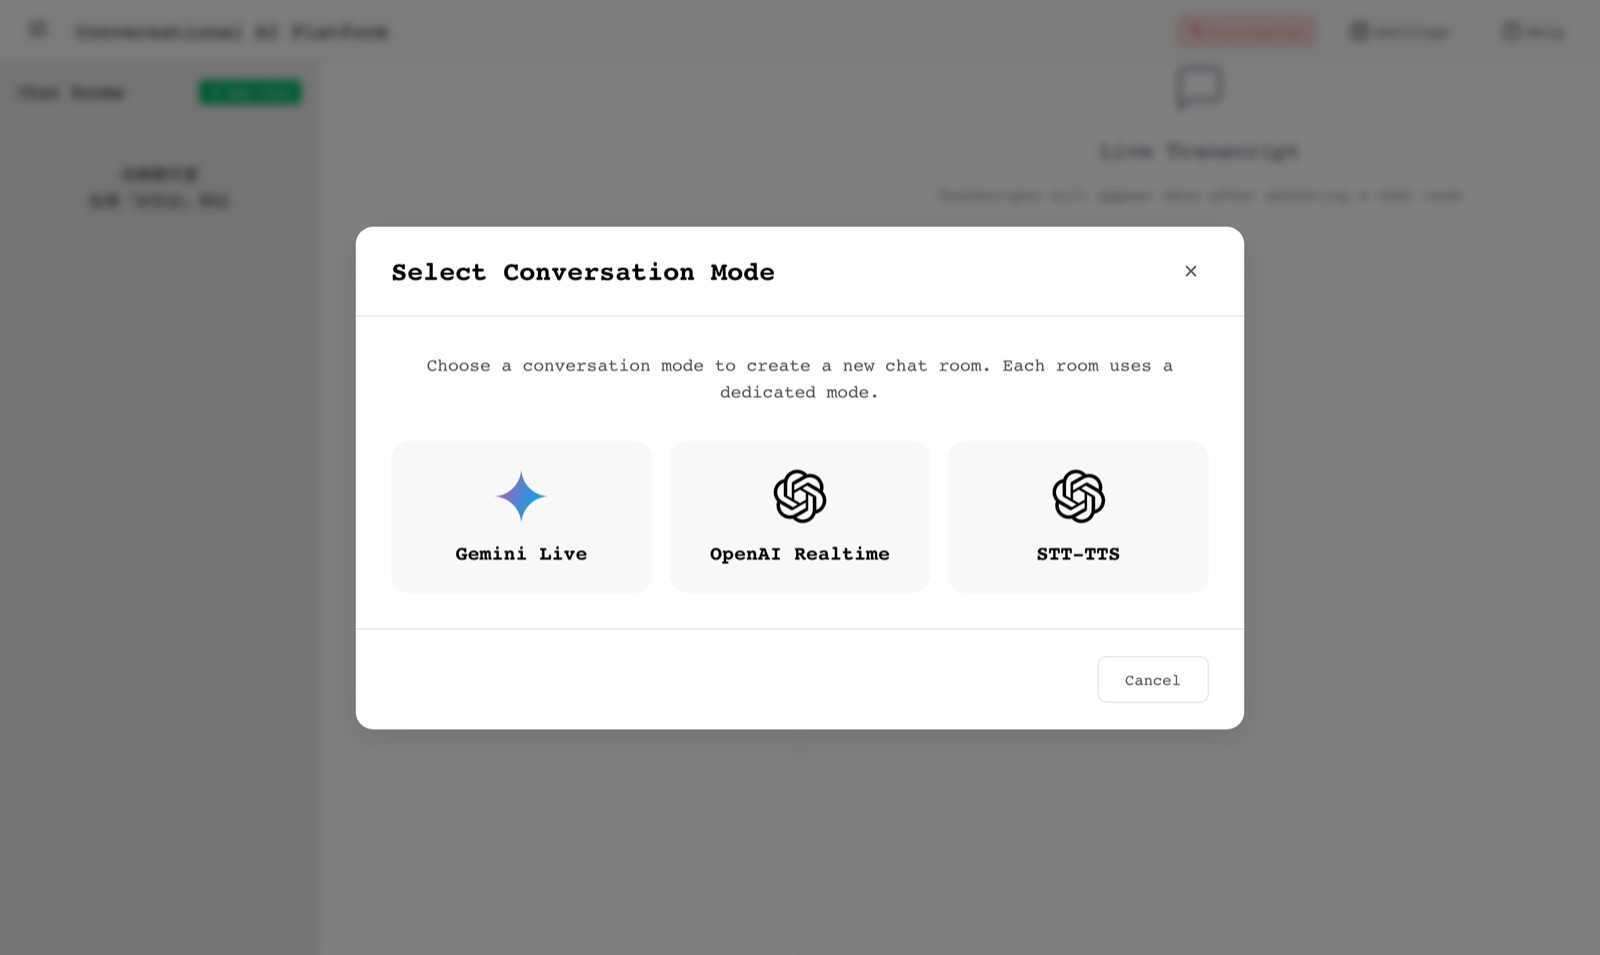
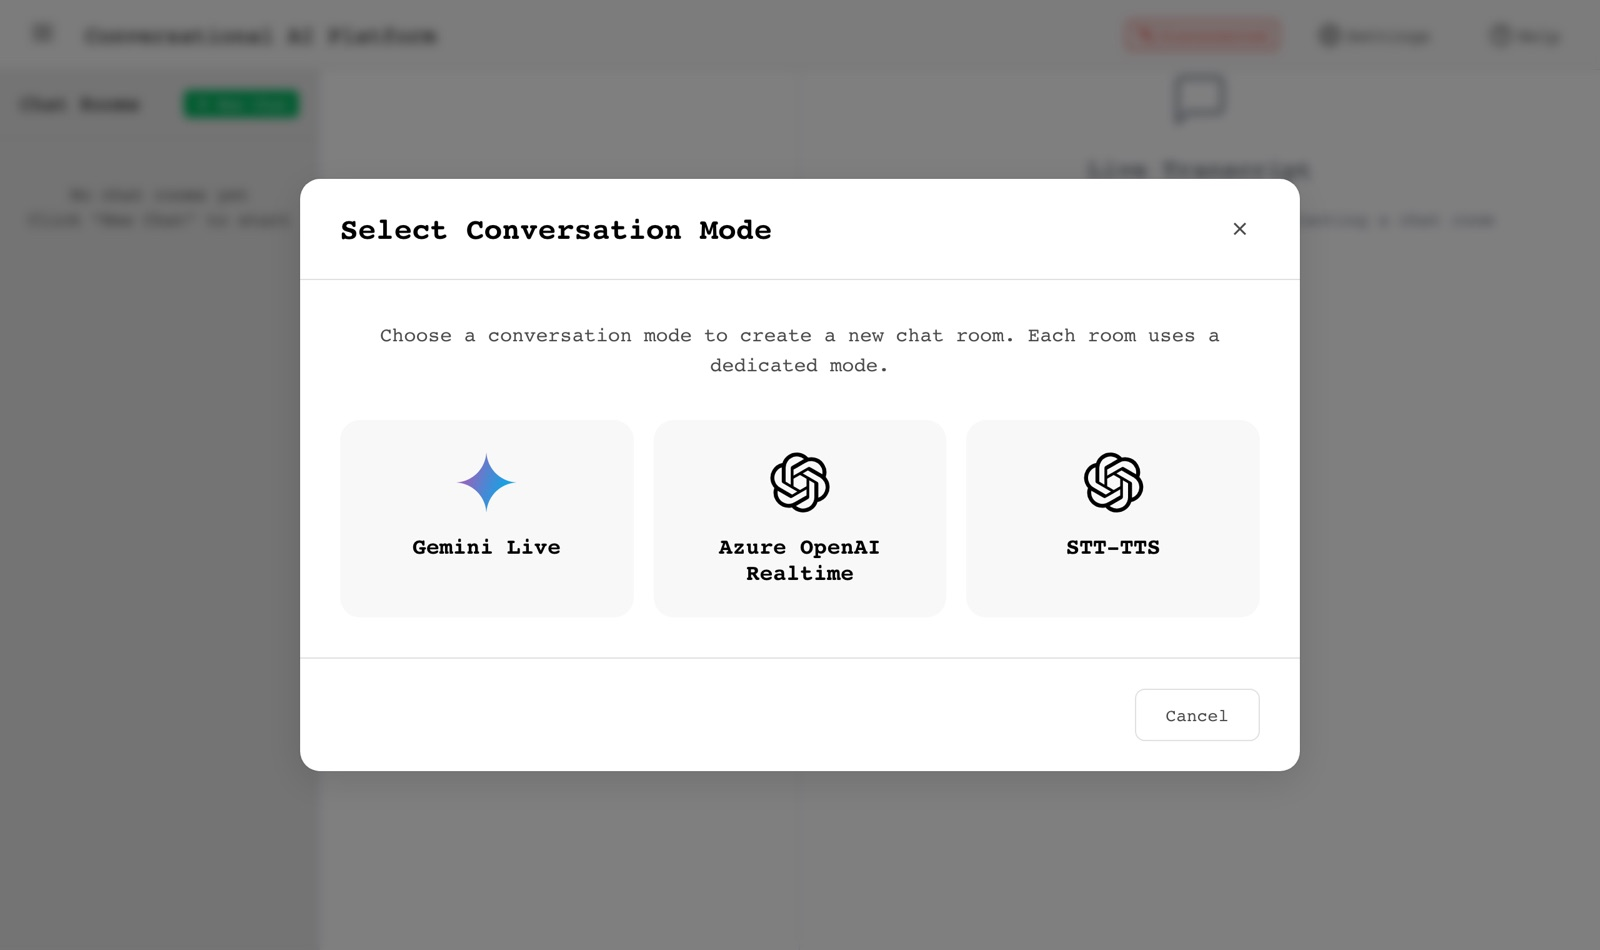
Review fixes: credit and contribution wording, score fusion, post-competition note, mobile layout, demo assets, Contact on phones

diff --git a/index.html b/index.html
@@ -18,7 +18,7 @@
 
 <header class="topbar">
   <a class="brand" href="#top"><span class="dot" aria-hidden="true"></span>PK Wu</a>
-  <nav class="navlinks glass" aria-label="Sections"><a href="#experience">Experience</a><a href="#work">Projects</a><a href="#awards">Awards</a><span class="progress" aria-hidden="true"></span></nav>
+  <nav class="navlinks glass" aria-label="Sections"><a href="#experience">Experience</a><a href="#work">Projects</a><a href="#awards">Awards</a><a class="nav-contact" href="#contact">Contact</a><span class="progress" aria-hidden="true"></span></nav>
   <a class="btn dark" href="#contact">Contact</a>
 </header>
 
@@ -51,7 +51,7 @@
       <h3>Digital Operations Partner Lead</h3>
       <p class="org">Licensed Taiwan Sports Lottery retailer, two stores</p>
       <p>Lead a 7–10 person team of sports analysts, content, events and engineering. Built the data pipeline, BI dashboard and a 5-agent operations system.</p>
-      <div class="tiles"><div class="tile hl"><b>+33%</b><span>monthly active members</span></div><div class="tile"><b>NT$36M</b><span>trailing-12-month betting volume</span></div><div class="tile"><b>151</b><span>automated tests on the pipeline</span></div></div>
+      <div class="tiles"><div class="tile hl"><b>+33%</b><span>monthly active members</span></div><div class="tile"><b>29K+</b><span>member-day records unified from 3 sources</span></div><div class="tile"><b>151</b><span>automated tests on the pipeline</span></div></div>
     </article>
     <article class="bcard dark rv">
       <p class="when"><span class="pill">Jul. – Dec. 2025</span></p>
@@ -87,7 +87,7 @@
       <div>
       <h3>National Taiwan University</h3>
       <p class="org">B.B.A. in Finance, Sep. 2021 – Jan. 2026</p></div>
-      <dl class="skills-mini"><div><dt>Retrieval &amp; NLP</dt><dd>BM25, embeddings, hybrid fusion, jieba</dd></div><div><dt>LLM systems</dt><dd>Gemini Live, Azure Realtime, LLM-as-a-judge</dd></div><div><dt>ML &amp; data</dt><dd>scikit-learn, XGBoost, Keras, SQL, Dash</dd></div></dl>
+      <dl class="skills-mini"><div><dt>Retrieval &amp; NLP</dt><dd>BM25, embeddings, hybrid fusion, jieba</dd></div><div><dt>LLM systems</dt><dd>Gemini Live, Azure OpenAI Realtime, LLM-as-a-judge</dd></div><div><dt>ML &amp; data</dt><dd>scikit-learn, XGBoost, Keras, SQL, Dash</dd></div></dl>
     </article>
   </div>
 </section>
@@ -116,16 +116,16 @@
   </article>
 <article class="proj pcard rv" aria-labelledby="p-voice">
     <div class="ptext">
-      <p class="metric"><span class="num">3 modes</span><span class="lab">Gemini Live, Azure Realtime and STT–TTS in one interface</span></p>
+      <p class="metric"><span class="num">3 modes</span><span class="lab">Gemini Live, Azure OpenAI Realtime and STT–TTS in one interface</span></p>
       <h3 class="ptitle" id="p-voice">Realtime voice customer-service agent</h3>
       <p class="meta">Cathay Life Insurance, GenAI Intern · Jul. – Dec. 2025</p>
       <p class="summary">A browser prototype that runs Gemini Live and Azure OpenAI Realtime behind one interface, with interruption handling. The team kept using it as their testing platform.</p>
       <ul class="tags" aria-label="Tools"><li>React</li><li>TypeScript</li><li>Gemini Live API</li><li>Azure OpenAI Realtime</li><li>Web Audio</li></ul>
       <p class="links"><a class="btn small" href="https://github.com/power7414/realtime-voice-agent"><svg viewBox="0 0 24 24" aria-hidden="true" width="18" height="18"><path fill="currentColor" d="M12 .297c-6.63 0-12 5.373-12 12 0 5.303 3.438 9.8 8.205 11.385.6.113.82-.258.82-.577 0-.285-.01-1.04-.015-2.04-3.338.724-4.042-1.61-4.042-1.61C4.422 18.07 3.633 17.7 3.633 17.7c-1.087-.744.084-.729.084-.729 1.205.084 1.838 1.236 1.838 1.236 1.07 1.835 2.809 1.305 3.495.998.108-.776.417-1.305.76-1.605-2.665-.3-5.466-1.332-5.466-5.93 0-1.31.465-2.38 1.235-3.22-.135-.303-.54-1.523.105-3.176 0 0 1.005-.322 3.3 1.23.96-.267 1.98-.399 3-.405 1.02.006 2.04.138 3 .405 2.28-1.552 3.285-1.23 3.285-1.23.645 1.653.24 2.873.12 3.176.765.84 1.23 1.91 1.23 3.22 0 4.61-2.805 5.625-5.475 5.92.42.36.81 1.096.81 2.22 0 1.606-.015 2.896-.015 3.286 0 .315.21.69.825.57C20.565 22.092 24 17.592 24 12.297c0-6.627-5.373-12-12-12"/></svg><span>View project</span></a> <a class="btn small primary" href="https://power7414.github.io/realtime-voice-agent/"><span>Try the demo</span></a></p>
       <details class="more"><summary>More details</summary><div class="more-body"><p>Phone customers expect to speak naturally and interrupt, which text chatbots do not handle. I built a browser prototype in React and TypeScript with one interface over two realtime speech APIs, Gemini Live and Azure OpenAI Realtime, including interruption (barge-in) handling, low-latency audio playback and saved transcripts.</p>
-    <p>The demo handles a failed premium payment in a multi-turn call and ends by sending a self-service link. I connected it to internal databases and service APIs for intent recognition and routing, and it became a testing platform the team kept using after the prototype phase. The codebase passes 25 automated tests.</p><div class="more-figs"><figure><div class="browser"><span class="dots" aria-hidden="true"><i></i><i></i><i></i></span><img src="img/voice-modes.jpg" width="1600" height="956" loading="lazy" alt="Mode picker with three options: Gemini Live, OpenAI Realtime, and speech-to-text plus text-to-speech."></div><figcaption>One interface, three speech back-ends.</figcaption></figure></div></div></details>
+    <p>The demo handles a failed premium payment in a multi-turn call and ends by sending a self-service link. I connected it to internal databases and service APIs for intent recognition and routing, and it became a testing platform the team kept using after the prototype phase. The codebase passes 25 automated tests.</p><div class="more-figs"><figure><div class="browser"><span class="dots" aria-hidden="true"><i></i><i></i><i></i></span><img src="img/voice-modes.jpg" width="1600" height="950" loading="lazy" alt="Mode picker with three options: Gemini Live, OpenAI Realtime, and speech-to-text plus text-to-speech."></div><figcaption>One interface, three speech back-ends.</figcaption></figure></div></div></details>
     </div>
-    <div class="figs"><figure class="shot"><div class="browser"><span class="dots" aria-hidden="true"><i></i><i></i><i></i></span><img src="img/voice-demo.gif" width="960" height="570" loading="lazy" alt="Animated demo: a new chat is opened, OpenAI Realtime is selected, and the live transcript fills in: a customer says this month's premium payment failed, the assistant asks about a recent card change and sends a link to update the card and pay."><span class="chip glass" aria-hidden="true">Gemini Live · Azure Realtime</span><a class="chip glass r" href="https://power7414.github.io/realtime-voice-agent/">▶ Try the demo</a><figcaption>Demo: new chat → pick a mode → connect. Scripted offline conversation shown in English (the real system served Mandarin-speaking customers); the internal business prompt is not shown.</figcaption></figure></div>
+    <div class="figs"><figure class="shot"><div class="browser"><span class="dots" aria-hidden="true"><i></i><i></i><i></i></span><img src="img/voice-demo.gif" width="960" height="570" loading="lazy" alt="Animated demo: a new chat is opened, Azure OpenAI Realtime is selected, and the live transcript fills in: a customer says this month's premium payment failed, the assistant asks about a recent card change and sends a link to update the card and pay."><span class="chip glass" aria-hidden="true">Gemini Live · Azure OpenAI Realtime</span><a class="chip glass r" href="https://power7414.github.io/realtime-voice-agent/">▶ Try the demo</a></div><figcaption>Demo: new chat → pick a mode → connect. Scripted offline conversation shown in English (the real system served Mandarin-speaking customers); the internal business prompt is not shown.</figcaption></figure></div>
   </article>
 <article class="proj pcard rv" aria-labelledby="p-eval">
     <div class="ptext">
@@ -155,14 +155,14 @@
   </article>
 <article class="proj pcard rv" aria-labelledby="p-esun">
     <div class="ptext">
-      <p class="metric"><span class="num">88.67%</span><span class="lab">precision@1, up from a 71.33% baseline</span></p>
+      <p class="metric"><span class="num">88.67%</span><span class="lab">precision@1 after post-competition tuning, up from a 71.33% baseline</span></p>
       <h3 class="ptitle" id="p-esun">Retrieval for bank customer questions</h3>
       <p class="meta">E.SUN Bank AI RAG Competition (T-Brain), 2024 · team of 3 · shortlisted in the preliminary round</p>
-      <p class="summary">Find the one right document for a bank customer's question. A hybrid BM25 and embedding pipeline reaches 88.67% precision@1, up from a 71.33% baseline.</p>
+      <p class="summary">Find the one right document for a bank customer's question. After the competition I rebuilt and tuned the hybrid BM25 and embedding pipeline to 88.67% precision@1, up from the 71.33% baseline.</p>
       <ul class="tags" aria-label="Tools"><li>Python</li><li>BM25</li><li>Conan-embedding</li><li>Hybrid retrieval</li><li>jieba</li></ul>
       <p class="links"><a class="btn small" href="https://github.com/power7414/esun-ai-rag-retrieval"><svg viewBox="0 0 24 24" aria-hidden="true" width="18" height="18"><path fill="currentColor" d="M12 .297c-6.63 0-12 5.373-12 12 0 5.303 3.438 9.8 8.205 11.385.6.113.82-.258.82-.577 0-.285-.01-1.04-.015-2.04-3.338.724-4.042-1.61-4.042-1.61C4.422 18.07 3.633 17.7 3.633 17.7c-1.087-.744.084-.729.084-.729 1.205.084 1.838 1.236 1.838 1.236 1.07 1.835 2.809 1.305 3.495.998.108-.776.417-1.305.76-1.605-2.665-.3-5.466-1.332-5.466-5.93 0-1.31.465-2.38 1.235-3.22-.135-.303-.54-1.523.105-3.176 0 0 1.005-.322 3.3 1.23.96-.267 1.98-.399 3-.405 1.02.006 2.04.138 3 .405 2.28-1.552 3.285-1.23 3.285-1.23.645 1.653.24 2.873.12 3.176.765.84 1.23 1.91 1.23 3.22 0 4.61-2.805 5.625-5.475 5.92.42.36.81 1.096.81 2.22 0 1.606-.015 2.896-.015 3.286 0 .315.21.69.825.57C20.565 22.092 24 17.592 24 12.297c0-6.627-5.373-12-12-12"/></svg><span>View project</span></a></p>
-      <details class="more"><summary>More details</summary><div class="more-body"><p>Given a customer question, the system must find the one correct document among insurance policies, financial reports and FAQs. I tested how accurately each candidate embedding model retrieved the right document, and built the reranking step for financial-report questions, where long reports are split into overlapping chunks and embedding scores are fused with BM25.</p>
-    <p>On the 150 official sample questions, a single reproducible pipeline reaches <strong>88.67% precision@1</strong>, up from the official baseline of 71.33%.</p>
+      <details class="more"><summary>More details</summary><div class="more-body"><p>Given a customer question, the system must find the one correct document among insurance policies, financial reports and FAQs. I tested how accurately each candidate embedding model retrieved the right document, and built the score-fusion step for financial-report questions, where long reports are split into overlapping chunks and embedding scores are fused with BM25.</p>
+    <p>After the competition, on the 150 official sample questions, my rebuilt pipeline reaches <strong>88.67% precision@1</strong>, up from the official baseline of 71.33%.</p>
     <p class="note">Methods were compared on the same 150 public questions; there is no held-out set.</p><div class="more-figs"><figure class="flowfig"><ol class="flow" aria-label="Retrieval pipeline from question to top-1 document"><li><span class="step">Customer question</span><span class=sub>with its category</span></li><li><span class="step">Candidate documents</span><span class=sub>FAQ, insurance policy or financial report</span></li><li><span class="step">Retrieve</span><span class=sub>BM25 + embeddings; long reports split into overlapping chunks</span></li><li><span class="step">Rerank (finance)</span><span class=sub>fuse embedding and BM25 scores</span></li><li><span class="step">Top-1 document</span><span class=sub>scored by precision@1</span></li></ol><figcaption>What the system does for each question.</figcaption></figure></div></div></details>
     </div>
     <div class="figs"><figure class="fig">
@@ -181,14 +181,14 @@
       <p class="metric"><span class="num">0.85</span><span class="lab">AUC for order-failure prediction</span></p>
       <h3 class="ptitle" id="p-bda">Prediction from text and behavior data</h3>
       <p class="meta">Big Data &amp; Business Analytics, National Taiwan University, spring 2025 · two team projects, 6 people</p>
-      <p class="summary">Predicted failed e-commerce orders from pre-order behaviour (AUC 0.85) and a stock's direction from 9,139 forum posts (70% accuracy).</p>
+      <p class="summary">Predicted failed e-commerce orders from pre-order behavior (AUC 0.85) and a stock's direction from 9,139 forum posts (70% accuracy).</p>
       <ul class="tags" aria-label="Tools"><li>Python</li><li>TensorFlow / Keras</li><li>scikit-learn</li><li>XGBoost</li><li>jieba</li></ul>
       <p class="links"><a class="btn small" href="https://github.com/power7414/order-failure-prediction"><svg viewBox="0 0 24 24" aria-hidden="true" width="18" height="18"><path fill="currentColor" d="M12 .297c-6.63 0-12 5.373-12 12 0 5.303 3.438 9.8 8.205 11.385.6.113.82-.258.82-.577 0-.285-.01-1.04-.015-2.04-3.338.724-4.042-1.61-4.042-1.61C4.422 18.07 3.633 17.7 3.633 17.7c-1.087-.744.084-.729.084-.729 1.205.084 1.838 1.236 1.838 1.236 1.07 1.835 2.809 1.305 3.495.998.108-.776.417-1.305.76-1.605-2.665-.3-5.466-1.332-5.466-5.93 0-1.31.465-2.38 1.235-3.22-.135-.303-.54-1.523.105-3.176 0 0 1.005-.322 3.3 1.23.96-.267 1.98-.399 3-.405 1.02.006 2.04.138 3 .405 2.28-1.552 3.285-1.23 3.285-1.23.645 1.653.24 2.873.12 3.176.765.84 1.23 1.91 1.23 3.22 0 4.61-2.805 5.625-5.475 5.92.42.36.81 1.096.81 2.22 0 1.606-.015 2.896-.015 3.286 0 .315.21.69.825.57C20.565 22.092 24 17.592 24 12.297c0-6.627-5.373-12-12-12"/></svg><span>View project: orders</span></a></p><p class="links"><a class="btn small" href="https://github.com/power7414/stock-forum-signal"><svg viewBox="0 0 24 24" aria-hidden="true" width="18" height="18"><path fill="currentColor" d="M12 .297c-6.63 0-12 5.373-12 12 0 5.303 3.438 9.8 8.205 11.385.6.113.82-.258.82-.577 0-.285-.01-1.04-.015-2.04-3.338.724-4.042-1.61-4.042-1.61C4.422 18.07 3.633 17.7 3.633 17.7c-1.087-.744.084-.729.084-.729 1.205.084 1.838 1.236 1.838 1.236 1.07 1.835 2.809 1.305 3.495.998.108-.776.417-1.305.76-1.605-2.665-.3-5.466-1.332-5.466-5.93 0-1.31.465-2.38 1.235-3.22-.135-.303-.54-1.523.105-3.176 0 0 1.005-.322 3.3 1.23.96-.267 1.98-.399 3-.405 1.02.006 2.04.138 3 .405 2.28-1.552 3.285-1.23 3.285-1.23.645 1.653.24 2.873.12 3.176.765.84 1.23 1.91 1.23 3.22 0 4.61-2.805 5.625-5.475 5.92.42.36.81 1.096.81 2.22 0 1.606-.015 2.896-.015 3.286 0 .315.21.69.825.57C20.565 22.092 24 17.592 24 12.297c0-6.627-5.373-12-12-12"/></svg><span>View project: stock</span></a></p>
       <details class="more"><summary>More details</summary><div class="more-body"><h4>Will an online order fail?</h4>
-    <p>Using 3.4 million e-commerce orders from 91APP, where about 12% fail, the team asked whether shopping behavior before an order signals failure. I built the DNN, LSTM and GRU models on counts of 18 behaviors in the 72 hours before each order. The DNN reached <strong>AUC 0.85</strong>, and 0.86 on orders that had behavior records.</p>
+    <p>Using 3.4 million e-commerce orders from 91APP, where about 12% fail, the team asked whether shopping behavior before an order signals failure. I built the team's deep-learning models (DNN, LSTM and GRU) on counts of 18 behaviors in the 72 hours before each order. The DNN reached <strong>AUC 0.85</strong>, and 0.86 on orders that had behavior records. The repo holds my BiLSTM notebook; the DNN and GRU runs are in the team report.</p>
     
     <h4>Can news and forum posts predict a stock's direction?</h4>
-    <p>For Innolux (3481), I did the preprocessing: filtering 9,139 forum and news posts by keyword, labeling them by the price move 5 days later, and building TF-IDF and chi-square features. Across six classifiers, the best ensemble (random forest, naive Bayes and XGBoost) reached <strong>70% accuracy</strong> on a held-out test split. In a stricter day-by-day backtest over two years, it was right <strong>60% of the time</strong> on the 3,407 calls it made confidently.</p><div class="more-figs"><figure><div class="chart bars" role="img" aria-label="Stock direction accuracy by model: random forest 69.17, naive Bayes 67.14, SVM 65.99, XGBoost 64.93, decision tree 62.37, KNN 61.57, ensemble 70.49, ensemble in rolling backtest 59.99 percent."><div class="row"><span class="lab">Random forest</span><span class="track"><span class="bar b" style="width:76.68%"></span><span class="v b" style="left:76.68%">69.2%</span></span></div><div class="row"><span class="lab">Naive Bayes</span><span class="track"><span class="bar b" style="width:68.56%"></span><span class="v b" style="left:68.56%">67.1%</span></span></div><div class="row"><span class="lab">SVM</span><span class="track"><span class="bar b" style="width:63.96%"></span><span class="v b" style="left:63.96%">66.0%</span></span></div><div class="row"><span class="lab">XGBoost</span><span class="track"><span class="bar b" style="width:59.72%"></span><span class="v b" style="left:59.72%">64.9%</span></span></div><div class="row"><span class="lab">Decision tree</span><span class="track"><span class="bar b" style="width:49.48%"></span><span class="v b" style="left:49.48%">62.4%</span></span></div><div class="row"><span class="lab">KNN</span><span class="track"><span class="bar b" style="width:46.28%"></span><span class="v b" style="left:46.28%">61.6%</span></span></div><div class="row"><span class="lab">Ensemble RF+NB+XGB</span><span class="track"><span class="bar f" style="width:81.96%"></span><span class="v f" style="left:81.96%">70.5%</span></span></div><div class="row"><span class="lab">Ensemble, rolling backtest</span><span class="track"><span class="bar f" style="width:39.96%"></span><span class="v f" style="left:39.96%">60.0%</span></span></div><div class="row axisrow" aria-hidden="true"><span></span><span class="ticks"><span style="left:0.00%">50%</span><span style="left:20.00%">55%</span><span style="left:40.00%">60%</span><span style="left:60.00%">65%</span><span style="left:80.00%">70%</span><span style="left:100.00%">75%</span></span></div></div><figcaption>Stock direction, accuracy on the held-out split (50% is a coin flip). The last bar is the stricter day-by-day backtest.</figcaption></figure></div></div></details>
+    <p>For Innolux (3481), I did the preprocessing: filtering 9,139 forum and news posts by keyword, labeling them by the price move 5 days later, and building TF-IDF and chi-square features. Across six classifiers, the best ensemble (random forest, naive Bayes and XGBoost) reached <strong>70% accuracy</strong> on a random held-out split, which is likely optimistic (the repo lists why). In a stricter day-by-day backtest over two years, it was right <strong>60% of the time</strong> on the 3,407 calls it made confidently.</p><div class="more-figs"><figure><div class="chart bars" role="img" aria-label="Stock direction accuracy by model: random forest 69.17, naive Bayes 67.14, SVM 65.99, XGBoost 64.93, decision tree 62.37, KNN 61.57, ensemble 70.49, ensemble in rolling backtest 59.99 percent."><div class="row"><span class="lab">Random forest</span><span class="track"><span class="bar b" style="width:76.68%"></span><span class="v b" style="left:76.68%">69.2%</span></span></div><div class="row"><span class="lab">Naive Bayes</span><span class="track"><span class="bar b" style="width:68.56%"></span><span class="v b" style="left:68.56%">67.1%</span></span></div><div class="row"><span class="lab">SVM</span><span class="track"><span class="bar b" style="width:63.96%"></span><span class="v b" style="left:63.96%">66.0%</span></span></div><div class="row"><span class="lab">XGBoost</span><span class="track"><span class="bar b" style="width:59.72%"></span><span class="v b" style="left:59.72%">64.9%</span></span></div><div class="row"><span class="lab">Decision tree</span><span class="track"><span class="bar b" style="width:49.48%"></span><span class="v b" style="left:49.48%">62.4%</span></span></div><div class="row"><span class="lab">KNN</span><span class="track"><span class="bar b" style="width:46.28%"></span><span class="v b" style="left:46.28%">61.6%</span></span></div><div class="row"><span class="lab">Ensemble RF+NB+XGB</span><span class="track"><span class="bar f" style="width:81.96%"></span><span class="v f" style="left:81.96%">70.5%</span></span></div><div class="row"><span class="lab">Ensemble, rolling backtest</span><span class="track"><span class="bar f" style="width:39.96%"></span><span class="v f" style="left:39.96%">60.0%</span></span></div><div class="row axisrow" aria-hidden="true"><span></span><span class="ticks"><span style="left:0.00%">50%</span><span style="left:20.00%">55%</span><span style="left:40.00%">60%</span><span style="left:60.00%">65%</span><span style="left:80.00%">70%</span><span style="left:100.00%">75%</span></span></div></div><figcaption>Stock direction, accuracy on the held-out split (50% is a coin flip). The last bar is the stricter day-by-day backtest.</figcaption></figure></div></div></details>
     </div>
     <div class="figs"><figure class="fig">
     <div class="chart bars" role="img" aria-label="Order-failure models by AUC, where 0.5 is chance: DNN 0.850, LSTM 0.705, GRU 0.704; DNN on orders with behavior records 0.858.">

diff --git a/style.css b/style.css
@@ -458,3 +458,17 @@ img.zoomable { cursor: zoom-in; }
 .stack.fanned .p2 { transition-delay: .08s; }
 /* the floating brand needs its own glass so it never sits on top of content */
 .brand { padding: .55rem 1rem; border-radius: 999px; background: rgba(255,255,255,.6); -webkit-backdrop-filter: blur(16px) saturate(1.6); backdrop-filter: blur(16px) saturate(1.6); border: 1px solid rgba(255,255,255,.85); box-shadow: 0 8px 28px rgba(20,40,32,.10); }
+
+/* ===== review fixes ===== */
+.nav-contact { display: none; }
+@media (max-width: 760px) {
+  .nav-contact { display: inline-block; }
+  .navlinks a { padding: .4rem .7rem; font-size: .875rem; }
+  /* phone: name and statement first, photo second and shorter */
+  .photo-card { order: 0; aspect-ratio: 16 / 11; }
+  .photo-card img { object-position: 30% 22%; }
+  /* award photos side by side, captions below, no overlap */
+  .stack { height: auto; display: grid; grid-template-columns: 1.4fr 1fr; gap: .75rem; align-items: start; }
+  .stack .ph, .stack.stacked .p1, .stack.stacked .p2, .stack .p1, .stack .p2 { position: static; width: auto; transform: none; padding: .4rem .4rem 0; }
+  .stack .ph figcaption { position: static; padding: .35rem .1rem .45rem; }
+}
